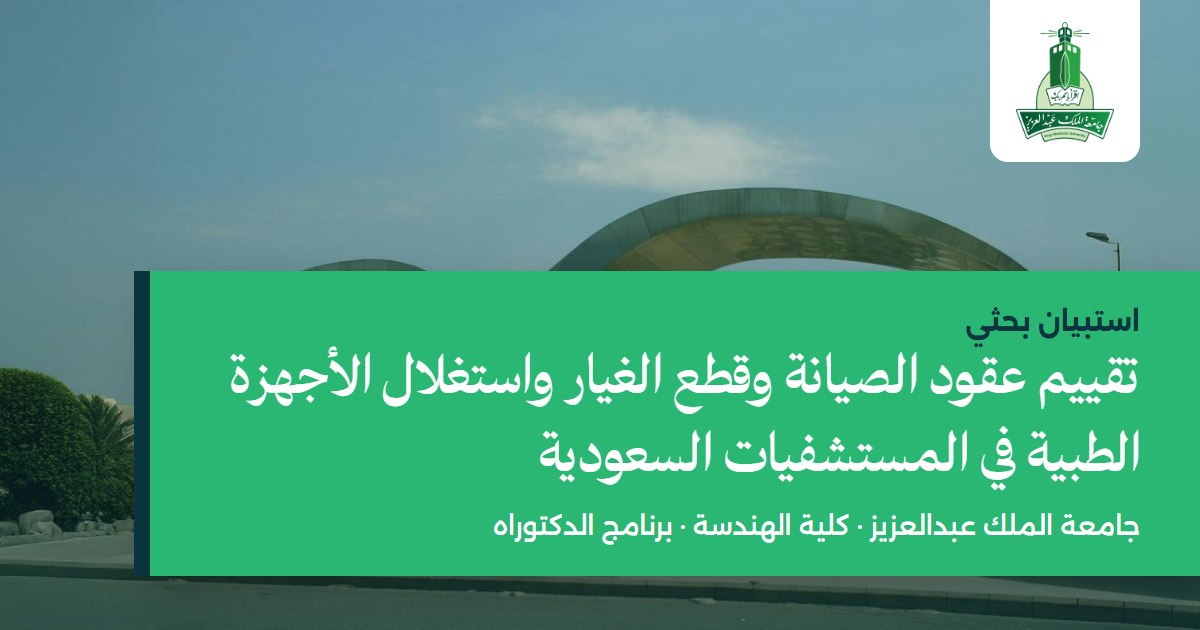
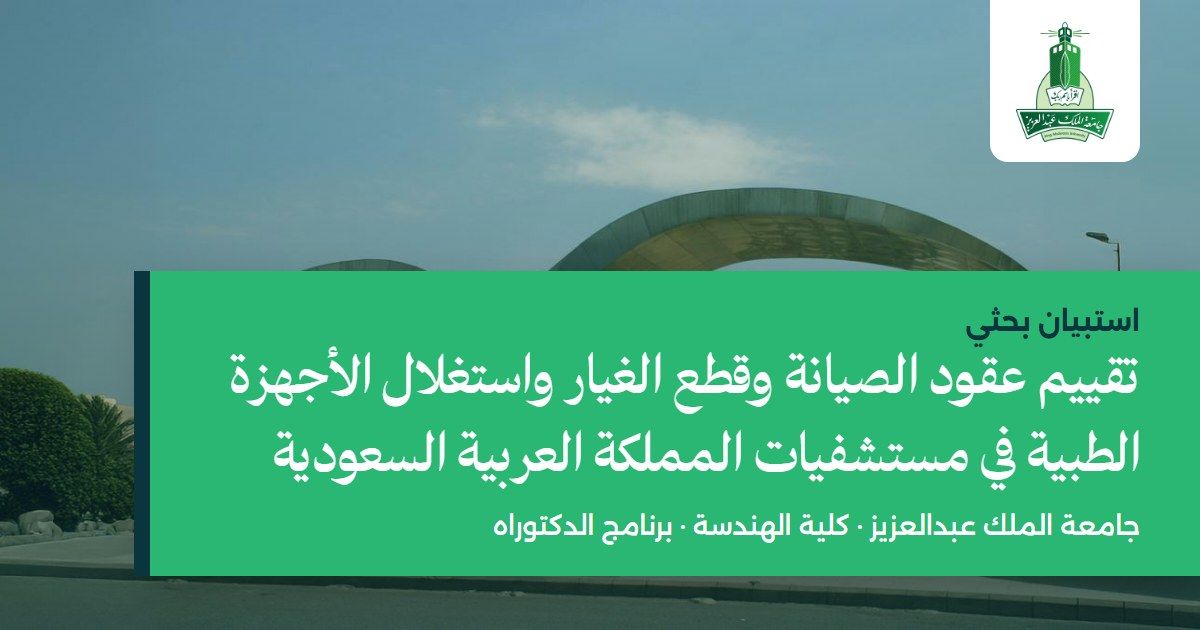
Update survey title on landing page and preview

Changed region(s): [[0.2158, 0.6635, 0.8325, 0.7841]]

diff --git a/kau-survey/index.html b/kau-survey/index.html
@@ -3,12 +3,12 @@
 <head>
 <meta charset="utf-8">
 <meta name="viewport" content="width=device-width, initial-scale=1">
-<title>تقييم عقود الصيانة وقطع الغيار واستغلال الأجهزة الطبية في المستشفيات السعودية</title>
+<title>تقييم عقود الصيانة وقطع الغيار واستغلال الأجهزة الطبية في مستشفيات المملكة العربية السعودية</title>
 <meta name="description" content="استبيان بحثي ضمن برنامج الدكتوراه في جامعة الملك عبدالعزيز · Research survey, King Abdulaziz University">
 <meta name="robots" content="noindex">
 <meta property="og:type" content="website">
 <meta property="og:site_name" content="جامعة الملك عبدالعزيز · كلية الهندسة">
-<meta property="og:title" content="تقييم عقود الصيانة وقطع الغيار واستغلال الأجهزة الطبية في المستشفيات السعودية">
+<meta property="og:title" content="تقييم عقود الصيانة وقطع الغيار واستغلال الأجهزة الطبية في مستشفيات المملكة العربية السعودية">
 <meta property="og:description" content="استبيان بحثي ضمن برنامج الدكتوراه في جامعة الملك عبدالعزيز · Research survey, King Abdulaziz University">
 <meta property="og:url" content="https://turkyy94-cmyk.github.io/kau-survey/">
 <meta property="og:image" content="https://turkyy94-cmyk.github.io/kau-survey/preview.jpg">
